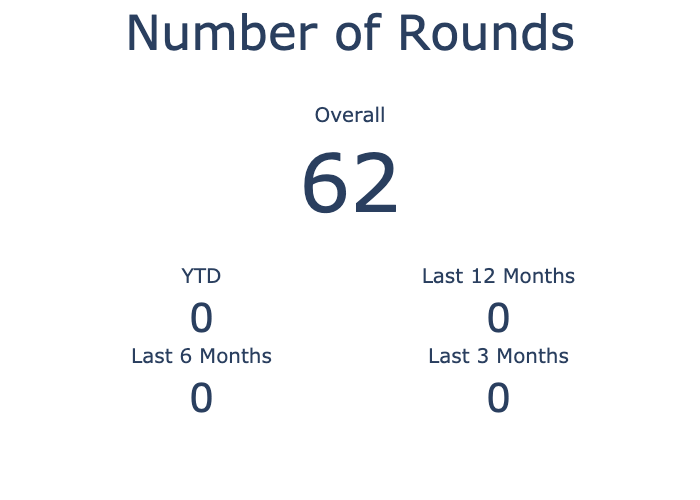
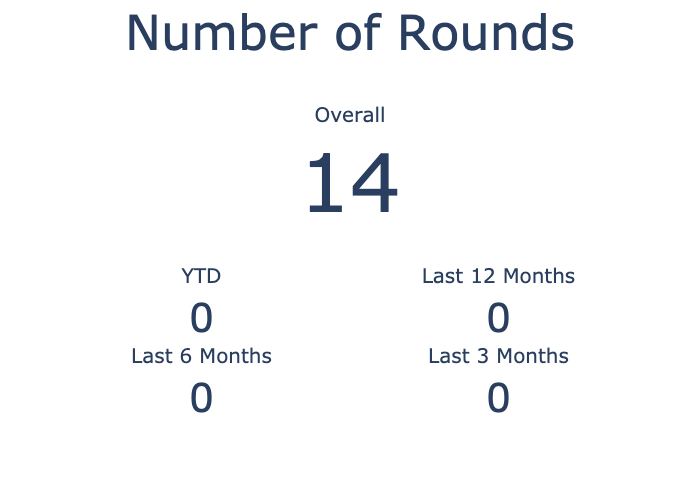
bugfix

Changed region(s): [[0.42, 0.3, 0.57, 0.45]]

diff --git a/udisc_stats/visualize.py b/udisc_stats/visualize.py
@@ -490,7 +490,7 @@ def plot_number_of_rounds(
 
     par = unique_pars[0]
 
-    rounds_overall = segment_round_score_df["Score"].values[0]
+    rounds_overall = len(segment_round_score_df["Score"].values)
 
     rounds_ytd = len(segment_round_score_df[
         segment_round_score_df.Date >= pd.Timestamp(f"01-01-{pd.Timestamp.today().year}")
